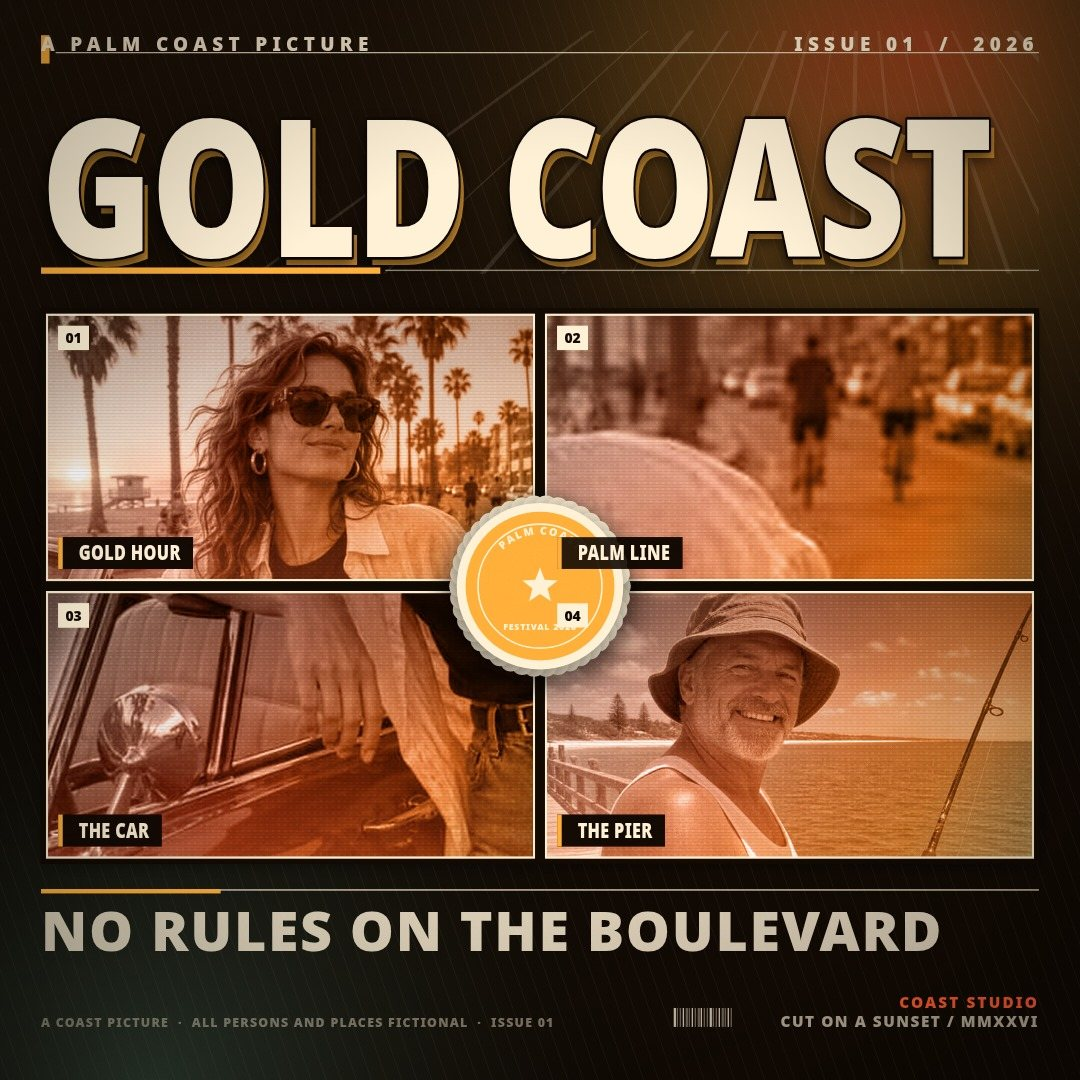
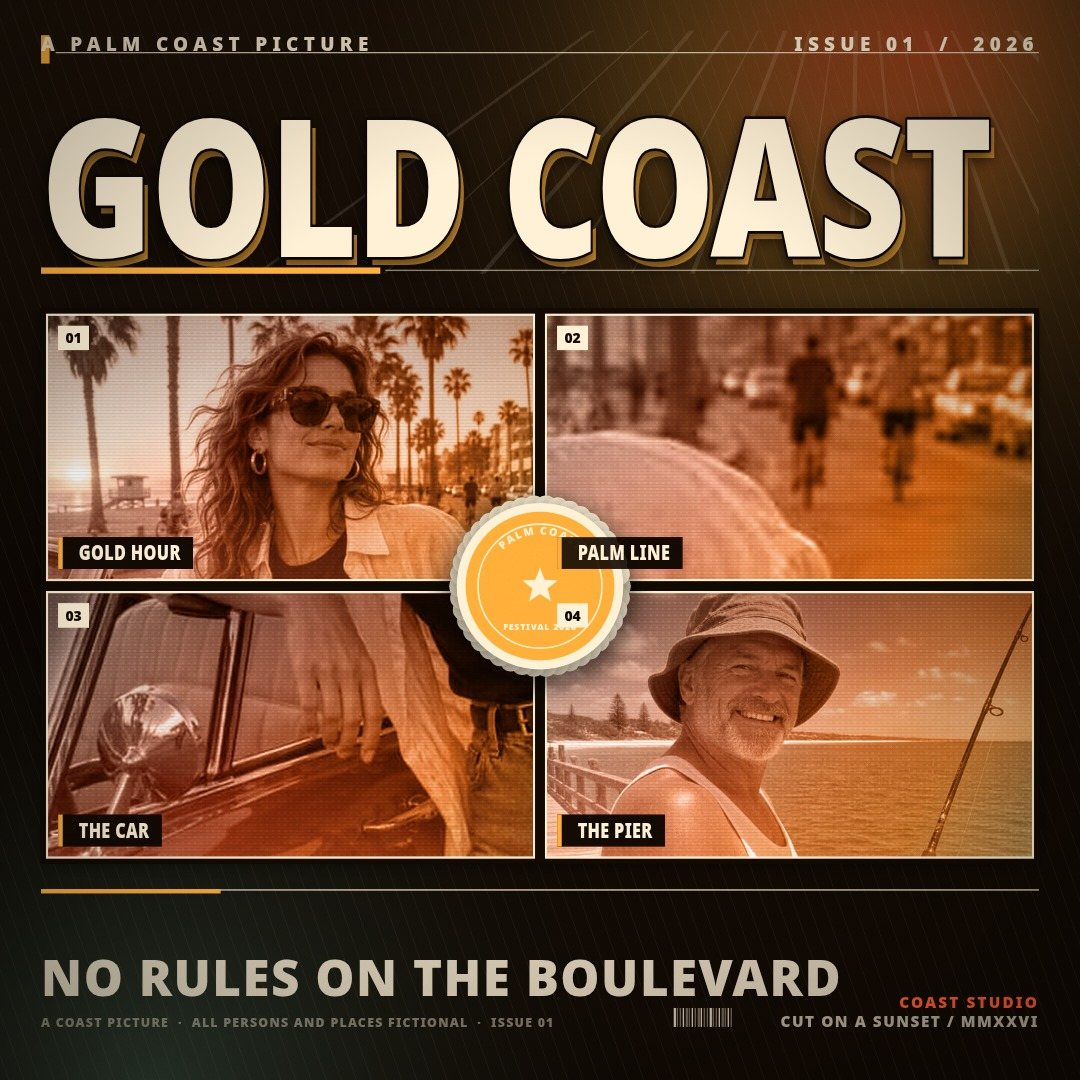
Hero cut-out in front of the wordmark, a nameable panel 02, caption-sized tagline
- The cut-out's silhouette is now cut from the photograph's own luminance inside a head-sized
  matte, so her hair, not the sky it used to carry, is what crosses the letters; the reach is
  anchored to the header so the crown meets the type on every post size. Measured on the render:
  13-14% of the band's cream ink is overwritten by her, none of it by a pale halo.
- Panel 02 is a second crew member's face. A 4.5:1 strip cannot hold any whole car element from
  the-car.jpg, and every crop of it read as chrome; the strip now holds a whole head.
- The footer tagline is a caption: 26% of the wordmark's cap height, its measure capped at 84% of
  the footer so it cannot read as a display line, sitting on the credits' own row. footerMetrics
  now shares CAPTION_MEASURE with the renderer, so the size a check reads is the size painted.
- Re-rendered all four screenshots; every panel passes the frame check.

Changed region(s): [[0.0306, 0.825, 0.8861, 0.9472]]

diff --git a/app/src/render.js b/app/src/render.js
@@ -69,6 +69,9 @@ export const SIZES = {
 
 const FONT_FAMILY = '"NotoCover", "Noto Sans", sans-serif';
 const CONDENSE = 0.79;
+// The footer caption's measure as a share of the footer's width. Shared by the renderer and the metrics so the
+// size a check reads is the size that was painted: a line set to the full sheet reads as a display line.
+const CAPTION_MEASURE = 0.84;
 const noise = makeNoiseTile();
 const dots = makeDotTile();
 
@@ -639,7 +642,7 @@ export function footerMetrics(state, W, H) {
   const caption = (state.caption || '').toUpperCase();
   const creditsW = footer.w * (isWide ? 0.26 : 0.3);
   const c2 = document.createElement('canvas').getContext('2d');
-  const led = captionLayout(c2, caption, footer.w * 0.96, fit.size, footer.h);
+  const led = captionLayout(c2, caption, footer.w * CAPTION_MEASURE, fit.size, footer.h);
   return {
     titleSize: fit.size, titleLines: fit.lines.length,
     captionSize: led.size, captionLines: led.lines.length, ratio: led.size / fit.size,
@@ -658,7 +661,7 @@ function captionLayout(ctx, caption, room, titleSize, footerH) {
   const legalRow = Math.max(11, footerH * 0.17);
   const padTop = footerH * 0.13;
   const blockH = Math.max(footerH * 0.3, footerH - legalRow - padTop);
-  const target = Math.min(titleSize / 3, blockH / 1.16, footerH * 0.42);
+  const target = Math.min(titleSize * 0.26, blockH / 1.16, footerH * 0.42);
 
   // Tracking is decoration, size is hierarchy: tighten the tracking to hold one line before giving up any height.
   for (const tracking of [0.14, 0.1, 0.06, 0.03]) {
@@ -702,19 +705,26 @@ function drawFooter(ctx, footer, state, pal, isWide, title) {
   ctx.fillStyle = pal.accent;
   ctx.fillRect(footer.x, ruleY, footer.w * 0.18, Math.max(2, footer.h * 0.03));
 
-  // The caption is a caption line above the credits now, not a band of its own: tracked caps at about a third of
-  // the wordmark's CAP height, on its own row across the sheet, so nothing squeezes it below that.
-  const blockTop = footer.y + footer.h * 0.13;
-  const led = captionLayout(ctx, caption, footer.w * 0.96, titleCap, footer.h);
+  // The caption is a caption, not a second title: it sits on the row immediately above the credits, at a third of
+  // the wordmark's cap height, so the rule above belongs to the grid and not to the line. Sizing comes first
+  // because the credits' baseline sets where the caption's own baseline lands.
+  // The caption's measure is capped well short of the sheet: a line that spans the full width reads as a display
+  // line at any point size, which is exactly what the wordmark must not have beside it.
+  const led = captionLayout(ctx, caption, footer.w * CAPTION_MEASURE, titleCap, footer.h);
   const capSize = led.size;
   const lines = led.lines;
+  const legalY = footer.y + footer.h - Math.max(3, led.legalRow * 0.32);
   const lineH = capSize * 1.16;
+  // Sit the caption on the credits' own row: ordinary spacing, so it reads as the line above the fine print
+  // rather than as a headline pinned to the rule at the top of the footer.
+  const capBaseline = legalY - Math.max(capSize * 0.62, footer.h * 0.1);
+
   ctx.save();
   ctx.font = `700 ${capSize}px ${FONT_FAMILY}`;
   ctx.letterSpacing = `${capSize * led.tracking}px`;
   ctx.fillStyle = hexAlpha(pal.cream, 0.84);
   for (let i = 0; i < lines.length; i++) {
-    ctx.fillText(lines[i], footer.x, blockTop + capSize * 0.78 + i * lineH);
+    ctx.fillText(lines[i], footer.x, capBaseline - (lines.length - 1 - i) * lineH);
   }
   ctx.restore();
   ctx.letterSpacing = '0px';
@@ -732,7 +742,6 @@ function drawFooter(ctx, footer, state, pal, isWide, title) {
     ctx.font = `700 ${fine}px ${FONT_FAMILY}`;
     ctx.letterSpacing = `${fine * 0.1}px`;
   }
-  const legalY = footer.y + footer.h - Math.max(3, led.legalRow * 0.32);
   ctx.fillStyle = hexAlpha(pal.cream, 0.46);
   ctx.fillText(legal, footer.x, legalY);
   ctx.letterSpacing = '0px';
@@ -852,8 +861,12 @@ export function heroBustBox(state, W, H) {
   const head = photo.head || face;
   const faceX = t.x + (face.x + face.w / 2) * t.dw;
   const faceY = t.y + (face.y + face.h * 0.44) * t.dh;
-  const rx = clamp(head.w * t.dw * 0.62, rect.w * 0.10, rect.w * 0.22);
-  const ry = clamp(head.h * t.dh * 0.62, rect.h * 0.16, rect.h * 0.44);
+  // The matte reaches a set distance up the sheet, not a fraction of the head box: the silhouette inside it is cut
+  // from the photograph's own luminance, so the extra height is empty sky and adds nothing, while the real hair
+  // inside it is what crosses the letters. Sizing from the head box left the crown short on a tall panel.
+  const apex = rect.y - H * (W / H > 1.4 ? 0.208 : 0.155);
+  const rx = clamp(head.w * t.dw * 0.62, rect.w * 0.10, rect.w * 0.24);
+  const ry = clamp(faceY - apex, rect.h * 0.16, rect.h * 1.1);
   return {
     cx: clamp(faceX, rect.x + rx * 0.6, rect.x + rect.w - rx * 0.6),
     cy: faceY, rx, ry, rect,
@@ -962,24 +975,41 @@ function drawHeroBust(ctx, geo, state, pal) {
   octx.fillStyle = wash2;
   octx.fillRect(bx0, by0, bw, bh);
 
-  // the silhouette, as its own canvas: an elliptical matte feathered just enough to hide its diameter
+  // The silhouette is cut from the photograph's own luminance, not from a geometric ellipse. An ellipse always
+  // carries whatever is inside it, so its apex brought the bright sky down with the hair and the sky, not her hair,
+  // is what crossed the letters. Her hair is the dark mass against that sky, so luminance is the real silhouette;
+  // a generous ellipse only bounds it to the region around her head.
   const matte = document.createElement('canvas');
   matte.width = cw;
   matte.height = ch;
   const mctx = matte.getContext('2d');
+  mctx.translate(pad + rx - cx, pad + ry - cy);
+  mctx.drawImage(photo.img, t.x, t.y, t.dw, t.dh);
+  const shot = mctx.getImageData(0, 0, cw, ch);
+  const sd = shot.data;
+  for (let i = 0; i < sd.length; i += 4) {
+    const lum = 0.2126 * sd[i] + 0.7152 * sd[i + 1] + 0.0722 * sd[i + 2];
+    // soft threshold: hair and the dark tee are opaque, sky and sand fall away
+    sd[i + 3] = Math.round(255 * clamp((168 - lum) / 62, 0, 1));
+    sd[i] = 255; sd[i + 1] = 255; sd[i + 2] = 255;
+  }
+  mctx.putImageData(shot, 0, 0);
+
+  // bound it to her head: the ellipse is wider and taller than the head so the crown is never clipped
+  mctx.globalCompositeOperation = 'destination-in';
   mctx.save();
+  mctx.setTransform(1, 0, 0, 1, 0, 0);
   mctx.translate(pad + rx, pad + ry);
   mctx.scale(1, ry / rx);
-  const mask = mctx.createRadialGradient(0, 0, rx * 0.55, 0, 0, rx);
-  mask.addColorStop(0, 'rgba(255,255,255,1)');
-  mask.addColorStop(0.965, 'rgba(255,255,255,1)');
-  // a crisp rim, only a few pixels of feather: the cut edge is the thing the rim light and shadow hang on
-  mask.addColorStop(1, 'rgba(255,255,255,0)');
-  mctx.fillStyle = mask;
+  const bound = mctx.createRadialGradient(0, 0, rx * 0.86, 0, 0, rx);
+  bound.addColorStop(0, 'rgba(255,255,255,1)');
+  bound.addColorStop(1, 'rgba(255,255,255,0)');
+  mctx.fillStyle = bound;
   mctx.beginPath();
   mctx.arc(0, 0, rx, 0, Math.PI * 2);
   mctx.fill();
   mctx.restore();
+  mctx.globalCompositeOperation = 'source-over';
 
   octx.setTransform(1, 0, 0, 1, 0, 0);
   octx.globalCompositeOperation = 'destination-in';

diff --git a/app/src/state.js b/app/src/state.js
@@ -96,19 +96,20 @@ export const PHOTO_FRAMES = {
  * was framed for. A panel holding a different photo falls back to that photo's own frame above.
  */
 export const LAYOUT_FRAMES = {
-  // the hero panel is 2.2:1 on the landscape sheet and the three strips are 4:1. No 4:1 strip can hold a whole
-  // head, so each strip is framed on one named thing: a whole car mirror, a whole reel in a hand, a whole face.
-  // The festival seal sits on the right column's left edge at mid-height, so slot 3's subject is kept to the right
-  // of the strip and slot 2's to the left, and neither is buried under it.
+  // The hero panel is 2.2:1 on the landscape sheet and the three strips are 4.5:1. No strip that wide can hold a
+  // whole car element — The Car's mirror needs an aspect the strip cannot give it, and cropped to 4.5:1 the
+  // chrome reads as chrome, not as a car. So the right column is the rest of the crew, one nameable subject per
+  // strip: a fisherman's face, a second woman's face, a reel in a hand. The festival seal sits on the right
+  // column's left edge at mid-height, so each strip's subject is kept clear of it.
   hero: {
     wide: [
       { photo: 'gold-hour', cx: 0.5, cy: 0.462, zoom: 1 },
-      { photo: 'the-car', cx: 0.5, cy: 0.5525, zoom: 1 },
       { photo: 'pier', cx: 0.42, cy: 0.255, zoom: 1 },
       { photo: 'low-tide', cx: 0.83, cy: 0.385, zoom: 1.5 },
+      { photo: 'the-car', cx: 0.5, cy: 0.72, zoom: 1 },
     ],
     portrait: [
-      { photo: 'gold-hour', cx: 0.52, cy: 0.5, zoom: 1.2 },
+      { photo: 'gold-hour', cx: 0.52, cy: 0.68, zoom: 1.2 },
       { photo: 'pier', cx: 0.5, cy: 0.36, zoom: 1.1 },
       { photo: 'the-car', cx: 0.45, cy: 0.5, zoom: 1.25 },
       { photo: 'low-tide', cx: 0.68, cy: 0.5, zoom: 1 },
